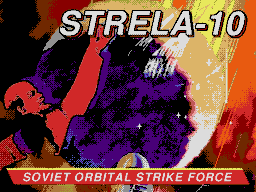
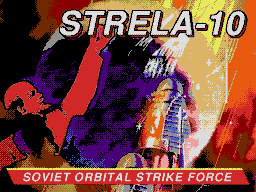
Tips: far fewer, rate-limited (none in the first 20 s, 90 s apart) and a TIPS option; title card shows more of the ship over the planet
Claude-Session: https://claude.ai/code/session_01FPrhtCkKD9x4qUaMeGY5fq

Changed region(s): [[0.5, 0.375, 0.8125, 0.875], [0.5938, 0.9375, 0.7188, 1.0]]

diff --git a/src/menus.js b/src/menus.js
@@ -335,41 +335,41 @@ function drawAchievementsPage(page){
   }
 }
 
-const OPTION_DESCS = ['EFFECTS AND MUSIC', 'SCREEN KICK AND PHONE BUZZ', 'MOVES EVERY WAVE UP OR DOWN', 'ERASES ALL HIGH SCORES', 'ERASES UNLOCKS AND CAMPAIGN'];
+const OPTION_DESCS = ['EFFECTS AND MUSIC', 'SCREEN KICK AND PHONE BUZZ', 'HINTS ABOUT NEW THINGS', 'MOVES EVERY WAVE UP OR DOWN', 'ERASES ALL HIGH SCORES', 'ERASES UNLOCKS AND CAMPAIGN'];
 function drawOptionsScreen(t){
   uiHeader('OPTIONS');
-  for (let i = 0; i < 5; i++){
-    const y = 25 + i * 26, sel = optionsSelection === i;
+  const RH = 20, PITCH = 22;
+  for (let i = 0; i < 6; i++){
+    const y = 25 + i * PITCH, sel = optionsSelection === i;
     const c = sel ? UI_SELECT : UI_NORMAL;
     const x = 6 + Math.round(uiAnim('o' + i, sel ? 1 : 0) * 3);
-    uiPlate(x, y, W - 12, 23, c[0], c[1], c[2], c[3]);
-    uiHit(6, y, W - 12, 23, () => { optionsSelection = i; activateOption(i); });
-    drawText2x(optionName(i), x + 9, y + 4, P.blk);
-    drawText2x(optionName(i), x + 8, y + 3, sel ? P.yel : P.wht);
-    const confirming = optionsConfirm === i && (i === 3 || i === 4);
-    drawText(confirming ? 'TAP AGAIN TO CONFIRM' : OPTION_DESCS[i], x + 8, y + 14, confirming ? P.yel : (sel ? P.wht : P.lblu));
+    uiPlate(x, y, W - 12, RH, c[0], c[1], c[2], c[3]);
+    uiHit(6, y, W - 12, RH, () => { optionsSelection = i; activateOption(i); });
+    drawText2x(optionName(i), x + 9, y + 3, P.blk);
+    drawText2x(optionName(i), x + 8, y + 2, sel ? P.yel : P.wht);
+    const confirming = optionsConfirm === i && (i === 4 || i === 5);
+    drawText(confirming ? 'TAP AGAIN TO CONFIRM' : OPTION_DESCS[i], x + 8, y + 13, confirming ? P.yel : (sel ? P.wht : P.lblu));
     if (i === 0){
-      uiSwitch(W - 36, y + 10, !opts.muted); drawText('FX', W - 29, y + 4, sel ? P.wht : P.lblu);
-      uiSwitch(W - 76, y + 10, opts.music !== false && !opts.muted); drawText('MUSIC', W - 77, y + 4, sel ? P.wht : P.lblu);
-      uiHit(W - 80, y, 36, 23, () => { opts.music = !(opts.music !== false); saveOpts(); sfx('toggle'); optionsSelection = 0; });
+      uiSwitch(W - 36, y + 8, !opts.muted); drawText('FX', W - 29, y + 2, sel ? P.wht : P.lblu);
+      uiSwitch(W - 76, y + 8, opts.music !== false && !opts.muted); drawText('MUSIC', W - 77, y + 2, sel ? P.wht : P.lblu);
+      uiHit(W - 80, y, 36, RH, () => { opts.music = !(opts.music !== false); saveOpts(); sfx('toggle'); optionsSelection = 0; });
     }
-    else if (i === 1) uiSwitch(W - 36, y + 7, opts.shake);
-    else if (i === 2){                                    // three segments: easy, normal, hard
+    else if (i === 1) uiSwitch(W - 36, y + 5, opts.shake);
+    else if (i === 2) uiSwitch(W - 36, y + 5, opts.tips);
+    else if (i === 3){                                    // three segments: easy, normal, hard
       for (let k = 0; k < 3; k++){
         const on = opts.difficulty === k, bx = W - 74 + k * 22;
-        uiPlate(bx, y + 8, 21, 13, on ? [P.dgrn, P.rrd, P.red][k] : P.blk, null, null, on ? P.yel : P.dblu);
-        const lab = ['E', 'N', 'H'][k];
-        drawText(lab, bx + 9, y + 12, on ? P.wht : P.blu);
-        uiHit(bx, y + 8, 21, 13, () => { opts.difficulty = k; saveOpts(); sfx('toggle'); optionsSelection = 2; });
+        uiPlate(bx, y + 3, 21, 13, on ? [P.dgrn, P.rrd, P.red][k] : P.blk, null, null, on ? P.yel : P.dblu);
+        drawText(['E', 'N', 'H'][k], bx + 9, y + 7, on ? P.wht : P.blu);
+        uiHit(bx, y + 3, 21, 13, () => { opts.difficulty = k; saveOpts(); sfx('toggle'); optionsSelection = 3; });
       }
-      drawText(DIFFICULTY_NAMES[opts.difficulty], W - 74 + 32 - Math.round(textW(DIFFICULTY_NAMES[opts.difficulty]) / 2), y + 1, P.yel);
     } else {
-      uiPlate(W - 46, y + 5, 36, 13, confirming ? P.rrd : P.dred, confirming ? P.pnk : P.red, P.blk, P.blk);
-      drawText(confirming ? 'SURE?' : 'CLEAR', W - 46 + Math.round((36 - textW(confirming ? 'SURE?' : 'CLEAR')) / 2), y + 9, P.wht);
+      uiPlate(W - 46, y + 3, 36, 13, confirming ? P.rrd : P.dred, confirming ? P.pnk : P.red, P.blk, P.blk);
+      drawText(confirming ? 'SURE?' : 'CLEAR', W - 46 + Math.round((36 - textW(confirming ? 'SURE?' : 'CLEAR')) / 2), y + 7, P.wht);
     }
   }
-  const backSel = optionsSelection === 5;
-  uiButton(W / 2 - 50, 156, 100, 18, 'BACK', { sel: backSel, scale: 2, align: 'center', icon: 'left', fn: () => { optionsSelection = 5; activateOption(5); } });
+  const backSel = optionsSelection === 6;
+  uiButton(W / 2 - 50, 158, 100, 16, 'BACK', { sel: backSel, scale: 2, align: 'center', icon: 'left', fn: () => { optionsSelection = 6; activateOption(6); } });
   uiFooter([['DPAD', 'MOVE'], ['A', 'CHANGE']], leaveOptions);
 }
 

diff --git a/src/patterns.js b/src/patterns.js
@@ -326,23 +326,10 @@ function rosterOf(phrases){
   return seen.slice(0, 8);
 }
 const PAT_TIPS = {
-  ripple: 'RIPPLE: THEY LAND ONE AFTER ANOTHER ALONG THE LINE. BREAK IT IN THE MIDDLE.',
-  pincer: 'PINCER: TWO MISSILES CLOSE ON ONE COLUMN. WAIT FOR THEM TO MEET, THEN ONE BLAST TAKES BOTH.',
-  rain: 'RAIN: MANY SMALL MISSILES AT ONCE. ONE WELL PLACED BLAST CHAINS THROUGH THEM.',
-  stick: 'BOMBING RUN: IT DROPS OVER FIXED COLUMNS. SHOOT IT BEFORE IT REACHES THE FIRST ONE.',
-  crossing: 'CROSSFIRE: THE SCOUTS MEET OVER THE MIDDLE AND DROP TOGETHER.',
-  sweep: 'SWEEP: VERTICAL SHIPS ZIG-ZAG DOWN AND DROP MISSILES ON THE WAY.',
-  vee: 'SQUADRON: THEIR BOMBS FALL ONE AFTER ANOTHER ACROSS THE SCREEN.',
   aegisPair: 'AEGIS PAIR: THE SHIELDS PULSE OUT OF STEP. SHOOT WHICHEVER IS OPEN.',
   chutes: 'PARACHUTES: THEY SLOW IN THE CLOUDS, THEN SPLIT INTO THREE. HIT THEM WHILE THEY DRIFT.',
-  heavyHit: 'HEAVY ORDNANCE: BIG SLOW BOMBS. THEY NEED A DIRECT HIT.',
-  wall: 'WALL: A WHOLE FORMATION AT ONCE. ONE BIG BLAST CAN CHAIN THROUGH IT.',
   synchro: 'TIMED STRIKE: THE SLOW ONE WAS LAUNCHED FIRST, SO THEY ALL LAND AT THE SAME MOMENT.',
-  barrage: 'BARRAGE: THREE VOLLEYS. ODD COLUMNS, EVEN COLUMNS, THEN EVERYTHING.',
   platformRaid: 'PLATFORM: IT LAUNCHES MISSILES. HIT IT WHEN ITS SHIELD DROPS.',
-  fleet: 'BOMBER FLEET: THREE BOMBERS WEAVE THEIR BOMBS BETWEEN EACH OTHER.',
-  mirvs: 'MIRV STORM: THE WARHEADS SPLIT IN THREE MID-FALL. HIT THEM BEFORE THEY BURST.',
-  weave: 'WEAVERS: THEY SNAKE LEFT AND RIGHT BUT LAND ON THEIR COLUMN. SHOOT WHERE THEY ARE GOING, NOT WHERE THEY ARE.',
   ghosts: 'PHANTOMS: THEY FADE OUT TOGETHER ON A BEAT AND CANNOT BE HIT WHILE FADED. FIRE AS THEY RETURN.',
   dive: 'DIVERS: THEY STOP AND FLASH WITH A LINE TO THEIR TARGET, THEN DIVE. THEY ARE EASY TO HIT WHILE THEY HANG.',
   bulwark: 'ORBITAL WALLS: A SAPPER HANGS THEM IN THE SKY. EVERY MISSILE BOUNCES OFF. SHOOT THE WALL WHEN ITS SHIELD DROPS, THREE TIMES, BEFORE IT LAPSES.',
@@ -384,7 +371,6 @@ function phraseStep(dt, dw, bossNow){
   choreo.waited = 0;
   const ph = choreo.phrases.shift();
   choreo.ran = true;
-  if (gameMode === 'wave') tip('fire', 'TAP TO FIRE. EACH TURRET RELOADS ON ITS OWN, SO ROTATE BETWEEN THEM.');
   choreo.gapT = runPhrase(ph, dw) + ph.gap;
   return true;
 }

diff --git a/src/options.js b/src/options.js
@@ -6,9 +6,10 @@
 function cycleOption(idx, dir){
   if (idx === 0){ opts.muted = !opts.muted; if (!opts.muted) opts.music = true; }
   else if (idx === 1){ opts.shake = !opts.shake; }
-  else if (idx === 2){ opts.difficulty = (opts.difficulty + (dir || 1) + 3) % 3; }
-  else if (idx === 3){ clearScores(); pushToast('SCORES CLEARED', P.red); }
-  else if (idx === 4){
+  else if (idx === 2){ opts.tips = !opts.tips; if (!opts.tips) tipQ = [], tipNow = null; }
+  else if (idx === 3){ opts.difficulty = (opts.difficulty + (dir || 1) + 3) % 3; }
+  else if (idx === 4){ clearScores(); pushToast('SCORES CLEARED', P.red); }
+  else if (idx === 5){
     stats = Object.assign({}, DEFAULT_STATS);
     unlockedAch = [];
     camp = sanitizeCamp({});
@@ -24,20 +25,22 @@ function cycleOption(idx, dir){
 function optionLabel(idx){
   if (idx === 0) return opts.muted ? 'OFF' : 'ON';
   if (idx === 1) return opts.shake ? 'ON' : 'OFF';
-  if (idx === 2) return DIFFICULTY_NAMES[opts.difficulty];
-  if (idx === 3) return 'CLEAR';
+  if (idx === 2) return opts.tips ? 'ON' : 'OFF';
+  if (idx === 3) return DIFFICULTY_NAMES[opts.difficulty];
   if (idx === 4) return 'CLEAR';
+  if (idx === 5) return 'CLEAR';
   return '';
 }
 function optionName(idx){
   if (idx === 0) return 'SOUND';
   if (idx === 1) return 'SCREEN SHAKE';
-  if (idx === 2) return 'DIFFICULTY';
-  if (idx === 3) return 'RESET SCORES';
-  if (idx === 4) return 'RESET PROGRESS';
+  if (idx === 2) return 'TIPS';
+  if (idx === 3) return 'DIFFICULTY';
+  if (idx === 4) return 'RESET SCORES';
+  if (idx === 5) return 'RESET PROGRESS';
   return '';
 }
-const OPTIONS_COUNT = 6;
+const OPTIONS_COUNT = 7;
 const DIFFICULTY_NAMES = ['EASY', 'NORMAL', 'HARD'];
 const DIFFICULTY_SHIFT = [-3, 0, 3];          // moves every wave up or down the difficulty curve
 const DIFFICULTY_SCORE = [0.8, 1, 1.25];       // and the score follows

diff --git a/src/game.js b/src/game.js
@@ -615,12 +615,10 @@ function fire(){
   const best = pickTurret();
   if(!best){                                         // everything is reloading, or every turret is down
     for (const t of turrets) if (t.alive) t.dry = 0.18;
-    tip('dry', 'ALL TURRETS ARE RELOADING. WAIT FOR ONE TO CHARGE, OR AIM WITH PATIENCE.');
     fireCooldown = 0.08; sfx('dry'); return;
   }
   runStats.shots++;
   stats.totalShots++;
-  if (runStats.shots === 6) tip('lead', 'SHOTS TAKE TIME TO TRAVEL. AIM AHEAD OF MOVING TARGETS.');
   best.flash=0.10; best.cd = rearmTime(); fireCooldown = 0.07;
   let blastR = 28;
   if (fxBlast > 0){ blastR = 44; fxBlast--; }
@@ -1070,7 +1068,6 @@ function damageCity(inst, ex){
   shake=1.4;flashT=0.6;warningT=0.4;hitStop=0.12;musicDip();
   sfx('cityHit');
   popups.push({ x: W / 2, y: GROUND - 52, text: 'A COLLECTIVE HAS FALLEN', t: 0, dur: 1.6, col: P.red, big: false });
-  if (gameMode === 'wave') tip('city', 'LOSE A CITY AND IT STAYS LOST UNTIL THE NEXT PLANET. SHOOT BOMBS BEFORE THEY LAND.');
   booms.push(new Boom(ex, GROUND - 2, 'mushroom', {r:44, dur:1.6, foe:true}));
   for(let i=0;i<14;i++){
     spawnParticle(ex,GROUND-4,rnd(-80,80),rnd(-110,-30),rnd(0.6,1.2),Math.random()<0.5?P.wht:P.tan,2);

diff --git a/src/tips.js b/src/tips.js
@@ -5,13 +5,19 @@
 let tipsSeen = safeLoad(KEY('tips'), []);
 if (!Array.isArray(tipsSeen)) tipsSeen = [];
 let tipQ = [], tipNow = null;
+let lastTipT = -1e9;
 function tip(id, text){
+  if (opts.tips === false) return;
+  const now = runStats.time;
+  if (now < lastTipT) lastTipT = -1e9;                       // a new run
+  if (now < 20 || now - lastTipT < 90 || tipNow || tipQ.length) return;     // never at the start, and well apart
   if (tipsSeen.includes(id) || tipQ.some(t => t.id === id) || (tipNow && tipNow.id === id)) return;
+  lastTipT = now;
   tipsSeen.push(id);
   safeSave(KEY('tips'), tipsSeen);
   tipQ.push({ id, lines: wrapText(text.toUpperCase(), 50), t: 0, dur: 2.6 + text.length * 0.045 });
 }
-function resetTips(){ tipsSeen = []; tipQ = []; tipNow = null; safeSave(KEY('tips'), tipsSeen); }
+function resetTips(){ lastTipT = -1e9; tipsSeen = []; tipQ = []; tipNow = null; safeSave(KEY('tips'), tipsSeen); }
 function updateTips(dt){
   if (!tipNow && tipQ.length) tipNow = tipQ.shift();
   if (tipNow){ tipNow.t += dt; if (tipNow.t > tipNow.dur) tipNow = null; }

diff --git a/src/pause.js b/src/pause.js
@@ -162,8 +162,8 @@ function leaveOptions(){
   else goToTitle();
 }
 function activateOption(i){
-  if (i === 5){ leaveOptions(); return; }
-  if (i === 3 || i === 4){
+  if (i === 6){ leaveOptions(); return; }
+  if (i === 4 || i === 5){
     if (optionsConfirm === i){ cycleOption(i); optionsConfirm = -1; }
     else { optionsConfirm = i; sfx('warn'); }
   } else {
@@ -233,7 +233,7 @@ function onPress(code){
       sfx('move');
     }
     if (code === 'ArrowLeft' || code === 'ArrowRight'){
-      if (optionsSelection <= 2) cycleOption(optionsSelection, code === 'ArrowRight' ? 1 : -1);
+      if (optionsSelection <= 3) cycleOption(optionsSelection, code === 'ArrowRight' ? 1 : -1);
     }
     if (code === 'Enter' || code === 'Space') activateOption(optionsSelection);
     if (code === 'Escape') leaveOptions();

diff --git a/src/intro.js b/src/intro.js
@@ -120,7 +120,7 @@ const DEFAULT_STATS = {
 let saveData = safeLoad(KEY('save'), null);
 if (saveData && !(saveData.v === 2 && Array.isArray(saveData.inst))) saveData = null;
 function clearSave(){ saveData = null; try { localStorage.removeItem(KEY('save')); } catch(e){} }
-const DEFAULT_OPTS = { muted: false, music: true, shake: true, reticle: 0, difficulty: 1 };
+const DEFAULT_OPTS = { muted: false, music: true, tips: true, shake: true, reticle: 0, difficulty: 1 };
 
 let stats = Object.assign({}, DEFAULT_STATS, safeLoad(KEY('stats'), {}));
 let opts  = Object.assign({}, DEFAULT_OPTS,  safeLoad(KEY('opts'),  {}));

diff --git a/src/crates.js b/src/crates.js
@@ -41,7 +41,6 @@ function startPass(c){
 }
 function spawnOrbital(type){
   if (crates.length >= 1) return;
-  tip('pu', 'SHOOT THE FLYING POWER-UP TO COLLECT IT.');
   const c = { type: type || pickCrateType(), pass: 0, dir0: Math.random() < 0.5 ? 1 : -1, x: -20, y: 100, trail: [], wait: 0, tt: 0 };
   startPass(c);
   crates.push(c);

diff --git a/tools/title/make_title.py b/tools/title/make_title.py
@@ -77,6 +77,13 @@ def top():
     bg.paste(echo,(pos[0]+int(W*0.035),pos[1]-int(H*0.03)),em)
     grown=fm.filter(ImageFilter.MaxFilter(9)); bg.paste(Image.new('RGB',(fw,fh),(0,0,0)),pos,grown)
     bg.paste(fg,pos,fm)
+    # the ship of poster 4, lifted off its own clouds and set against the planet
+    sh=p4.crop((95,385,385,700)); shh=int(H*0.60); shw=int(sh.width*shh/sh.height)
+    sh=sh.resize((shw,shh),Image.LANCZOS)
+    sm=Image.new('L',(shw,shh),0); ImageDraw.Draw(sm).ellipse([int(shw*0.36),int(shh*0.02),int(shw*0.88),int(shh*0.98)],fill=255)
+    sm=sm.filter(ImageFilter.GaussianBlur(int(shw*0.05)))
+    spos=(int(W*0.60)-shw//2,int(H*0.40))
+    bg.paste(sh,spos,sm)
     d=ImageDraw.Draw(bg)
     rnd=random.Random(11)
     for _ in range(9):
